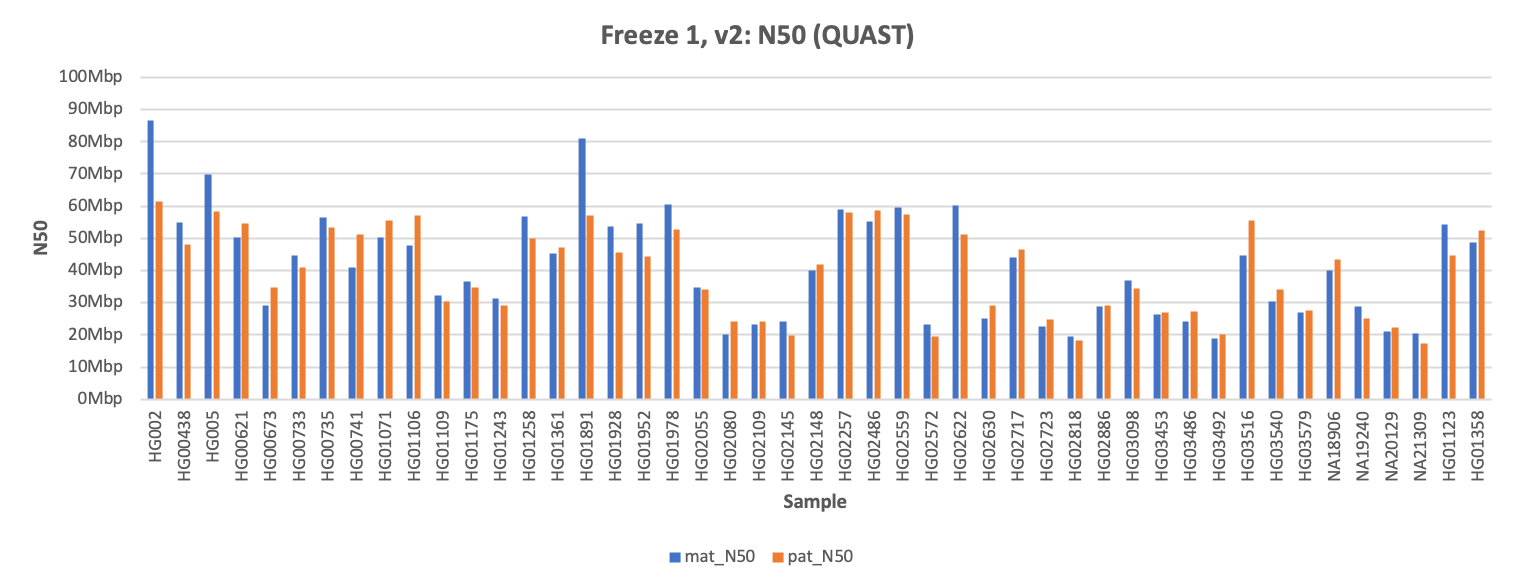
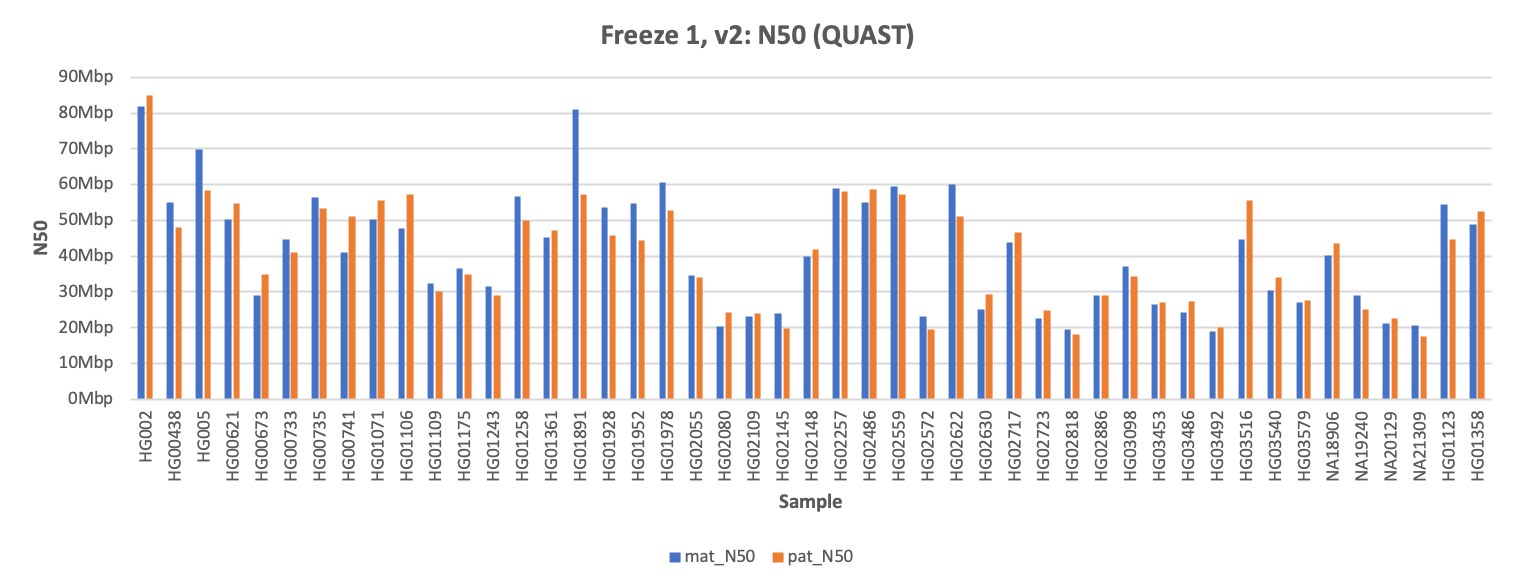
new HG002 assembly that fixes misjoin

Changed region(s): [[0.031, 0.1227, 0.9624, 0.8893], [0.9313, 0.3373, 0.9934, 0.46]]

diff --git a/README.MD b/README.MD
@@ -77,13 +77,14 @@ AnVIL users can access the data stored in GCP through the public [AnVIL_HPRC wor
 
 ### Known Issues
 
-* **outstanding:** HG002 maternal contig h2tg000045l has a misjoin of chr1 and chr2 along with a large false duplication. HG002 is currently being reassembled with all PacBio HiFi v2 data and a newer version of hifiasm to fix these issues. 
-* **outstanding** HG01071 does not produce a MT contig
-* **manually fixed:** HG02080 had a misjoin in h2tg000053l
+* **fixed:** HG002 maternal contig h2tg000045l had a misjoin of chr1 and chr2 along with a large false duplication. Sample was reassembled using a new (v0.14.1) version of hifisasm to fix the misjoin issue. New assemblies released under v2.1.
+* **outstanding:** HG01071 does not produce a MT contig
+* **manually fixed:** HG02080 (maternal) had a misjoin in h2tg000053l
   * h2tg000053l_1 : h2tg000053l [0, 41506502]
   * h2tg000053l_2 : h2tg000053l [63683095, 92488067]
+* **outstanding**: HG02080 (paternal) has a contig (h1tg000073l) where 4mb aligns to chr17 and 7mb aligns to chr19. It is unclear if this is a misjoin so it was not manually broken.
 * **manually fixed:** The original paternal v2 assemblies for HG01123 & HG01358 each had a misjoin and a false duplication. This was fixed manually and released under v2.1
-  * Only these two samples have v2.1 
+  * Only these two samples (and HG002) have v2.1 
   * Note that the QC was run w/ the name v2 but v2.1 data was used for these two samples 
   * Below are the break points:
     * HG01123: remove [94439457, contig end) of h1tg000013l 
@@ -99,5 +100,6 @@ AnVIL users can access the data stored in GCP through the public [AnVIL_HPRC wor
   * Added HiFiAdapterFilt preprocessing of HiFi data
   * Switched to Hifiasm v0.14
   * Added masking based on minimap2 alignments of SMRTBell adapter dimer
-* Mar 18, 2021: fixed misjoin and false duplications in paternal assemblies for HG01123 & HG01358 
+* Mar 18, 2021: fixed misjoin and false duplications in paternal assemblies for HG01123 & HG01358
+* Apr 06, 2021: fixed misjoin and false duplication in HG002 maternal contig. 
 ```
